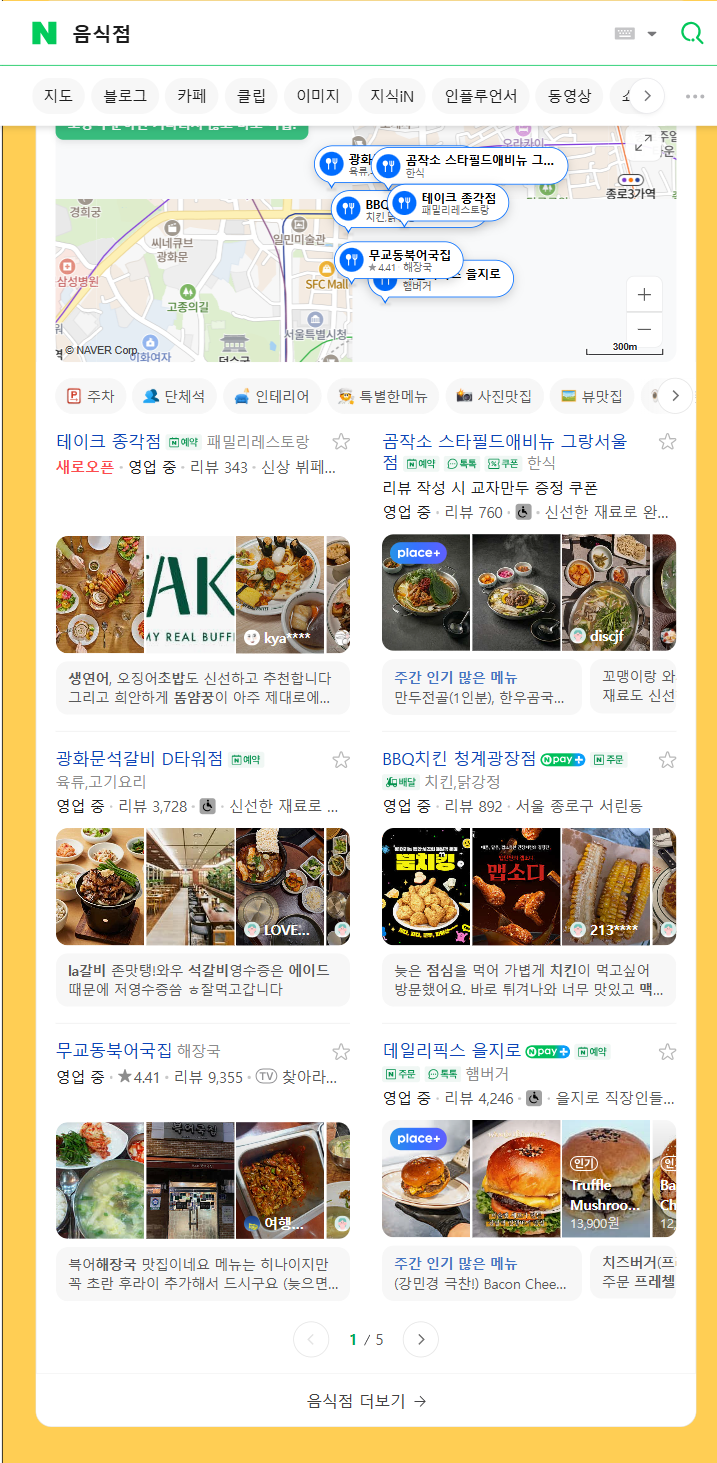
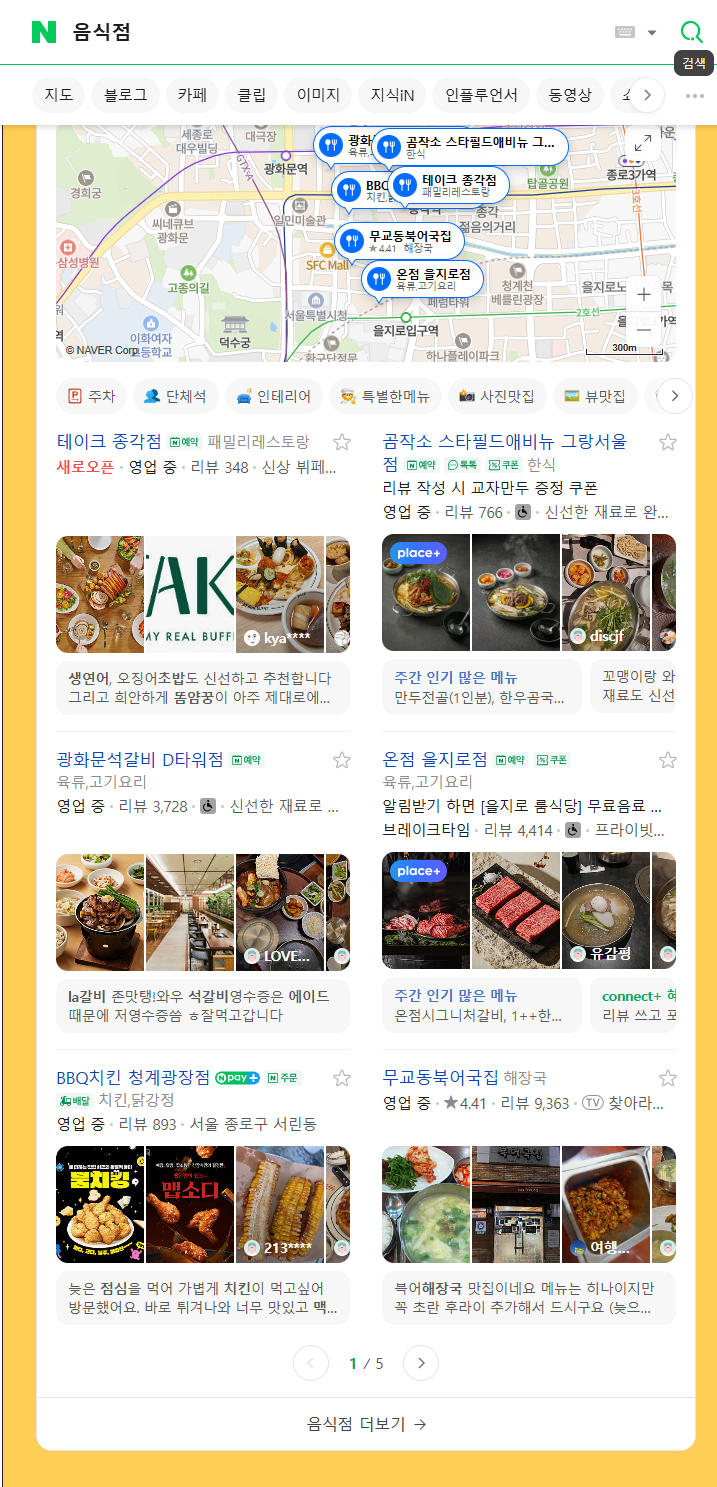
최신화

diff --git a/tests/api/api-logger.spec.ts b/tests/api/api-logger.spec.ts
@@ -1,0 +1,53 @@
+import { test } from '@playwright/test';
+import fs from 'fs';
+import path from 'path';
+
+test('모든 액션과 호출된 API 매핑하여 로그 저장', async ({ page }) => {
+  const logDir = path.join(__dirname, 'logs');
+  if (!fs.existsSync(logDir)) fs.mkdirSync(logDir, { recursive: true });
+
+  // 현재 어떤 버튼을 눌렀는지 추적할 변수
+  let lastAction = 'Initial Load';
+
+  // 1. 클릭 이벤트 감지
+  await page.exposeFunction('logClick', (elementInfo: string) => {
+    lastAction = elementInfo;
+    console.log(`🖱 클릭 감지: ${elementInfo}`);
+  });
+
+  await page.addInitScript(() => {
+    document.addEventListener('click', (e) => {
+      const target = e.target as HTMLElement;
+      (window as any).logClick(target.tagName + ' - ' + (target.innerText || target.className));
+    });
+  });
+
+// 2. 응답 감지 시 수정
+  page.on('response', async (response) => {
+    const url = response.url();
+    if (url.includes('api') || url.includes('graphql')) {
+      const logEntry = {
+        timestamp: new Date().toISOString(),
+        action: lastAction,
+        url: url,
+        status: response.status(),
+      };
+      
+      // 💡 개별 파일 대신, 하나의 파일에 로그를 줄바꿈해서 이어 붙입니다.
+      const logFilePath = path.join(logDir, 'full_api_log.jsonl'); // JSONL 형식 (한 줄씩 JSON)
+      
+      // JSON 데이터를 문자열로 변환하고 줄바꿈 추가
+      const logLine = JSON.stringify(logEntry) + '\n';
+      
+      // appendFileSync를 사용하여 파일이 있으면 뒤에 내용을 추가합니다.
+      fs.appendFileSync(logFilePath, logLine);
+      
+      console.log(`💾 로그 추가됨: [${lastAction}] -> ${url}`);
+    }
+  });
+
+  await page.goto('https://nxgen.search.naver.com/p/sqa/search.naver?query=음식점&debug=1');
+  
+  console.log('🛑 실시간 API 로깅 시작. 화면을 마음껏 조작하세요.');
+  await page.pause(); 
+});

diff --git a/playwright.config.ts b/playwright.config.ts
@@ -7,53 +7,44 @@ dotenv.config({
 });
 
 export default defineConfig({
-  testDir: './tests',
-
-  globalSetup: require.resolve('./auth/login.setup'), // ⭐ 핵심 수정
-
-  timeout: 120 * 1000,
-
-  expect: {
-    timeout: 5000,
-  },
-
-  fullyParallel: false,
-
-  forbidOnly: !!process.env.CI,
-  retries: process.env.CI ? 2 : 0,
-  workers: process.env.CI ? 2 : undefined,
-
-  reporter: 'html',
-
-  use: {
-    baseURL: process.env.BASE_URL ?? 'https://www.naver.com',
-
-    locale: 'ko-KR',
-
-    trace: 'retain-on-failure',
-    screenshot: 'only-on-failure',
-    video: 'retain-on-failure',
-  },
-
+  // globalSetup 제거
+  
   projects: [
+    // 1. 로그인 테스트 프로젝트 (다른 테스트의 의존성)
+    {
+      name: 'setup',
+      testMatch: 'auth/login.setup.ts',
+      use: { 
+        ...devices['Desktop Chrome'],
+        // setup은 headless 모드로 빠르게 수행하는 게 좋습니다.
+        headless: true 
+      },
+    },
+
+    // 2. 로그인 필요한 실제 테스트들
     {
       name: 'logged-in-tests',
       testDir: './tests/login',
-
+      dependencies: ['setup'], // 💡 setup 프로젝트가 먼저 끝나야 실행됨
       use: {
         ...devices['Desktop Chrome'],
-        storageState: 'auth/login.json',
+        storageState: 'auth/login.json', // 여기서 저장된 쿠키 사용
       },
     },
 
+    // 3. 비로그인 테스트
     {
       name: 'guest-tests',
       testDir: './tests/guest',
-
-      use: {
-        ...devices['Desktop Chrome'],
-        storageState: undefined,
-      },
+      use: { ...devices['Desktop Chrome'] },
     },
+
+    // 4. api 테스트 
+    {
+      name: 'api-tests',
+      testDir: './tests/api/', // 이 폴더를 바라보게 설정
+      use: { ...devices['Desktop Chrome'] },
+    },
+
   ],
 });

diff --git a/auth/login.setup.ts b/auth/login.setup.ts
@@ -1,21 +1,27 @@
-import { chromium } from '@playwright/test';
+import { test as setup } from '@playwright/test';
+import fs from 'fs';
+import path from 'path';
 
-export default async () => {
-  const browser = await chromium.launch();
-  const context = await browser.newContext();
-  const page = await context.newPage();
+const authFile = path.join(__dirname, '../auth/login.json');
 
+setup('authenticate', async ({ page }) => {
+  // 파일이 존재하고, 12시간 이내라면 아무것도 안 하고 종료
+  if (fs.existsSync(authFile)) {
+    const stats = fs.statSync(authFile);
+    if (new Date().getTime() - stats.mtimeMs < 12 * 60 * 60 * 1000) {
+      console.log('✅ 기존 로그인 세션 재사용');
+      return;
+    }
+  }
+
+  // 세션이 없으면 로그인 수행
   await page.goto('https://nid.naver.com/nidlogin.login?mode=form');
-
   await page.fill('#id', process.env.NAVER_ID!);
   await page.fill('#pw', process.env.NAVER_PASSWORD!);
   await page.click('#log\\.login');
-
+  
+  // 로그인 성공 여부 확인 (네이버 메인으로 이동하는지 확인)
   await page.waitForURL('https://www.naver.com/**');
-
-  await context.storageState({
-    path: 'auth/login.json'
-  });
-
-  await browser.close();
-};
+  
+  await page.context().storageState({ path: authFile });
+});
